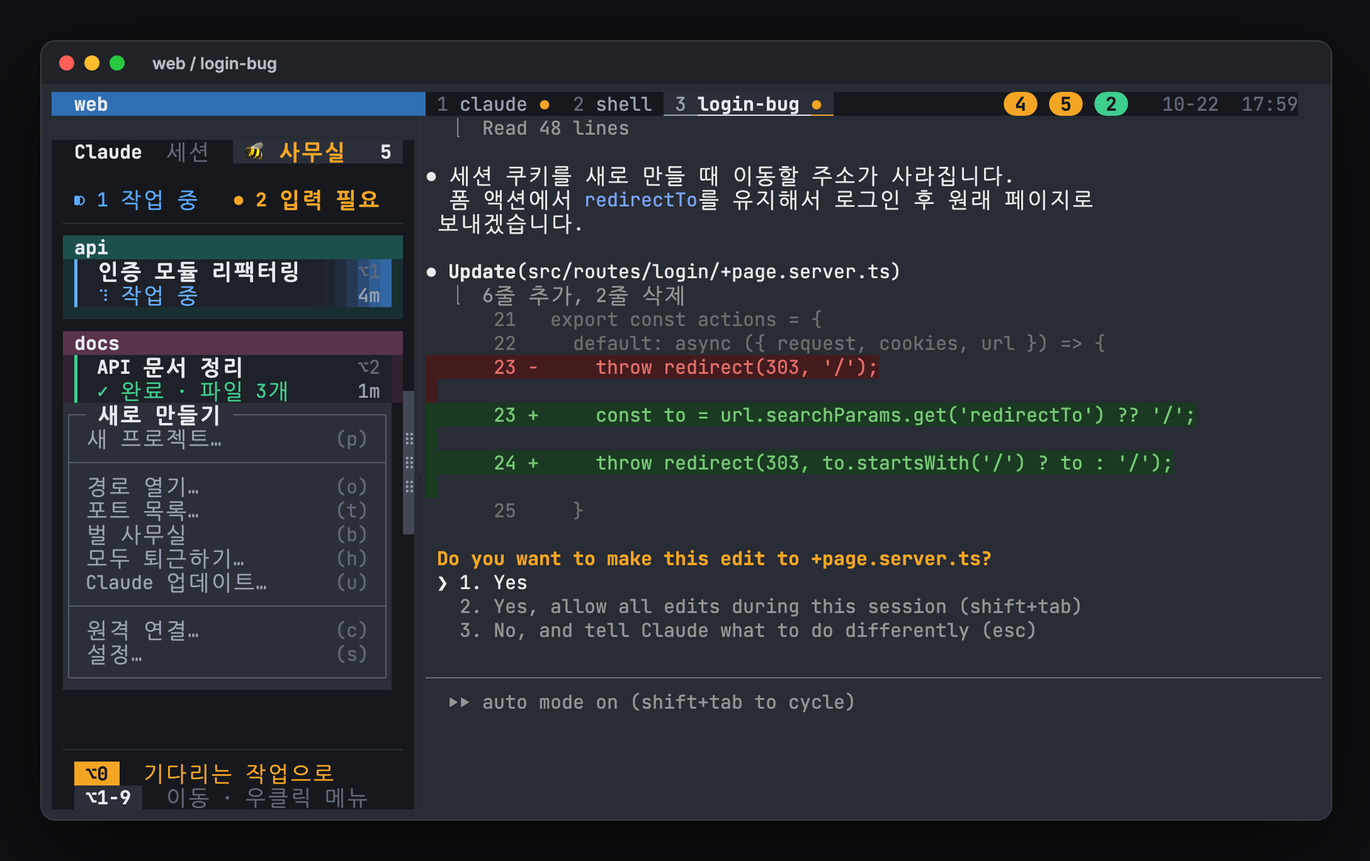
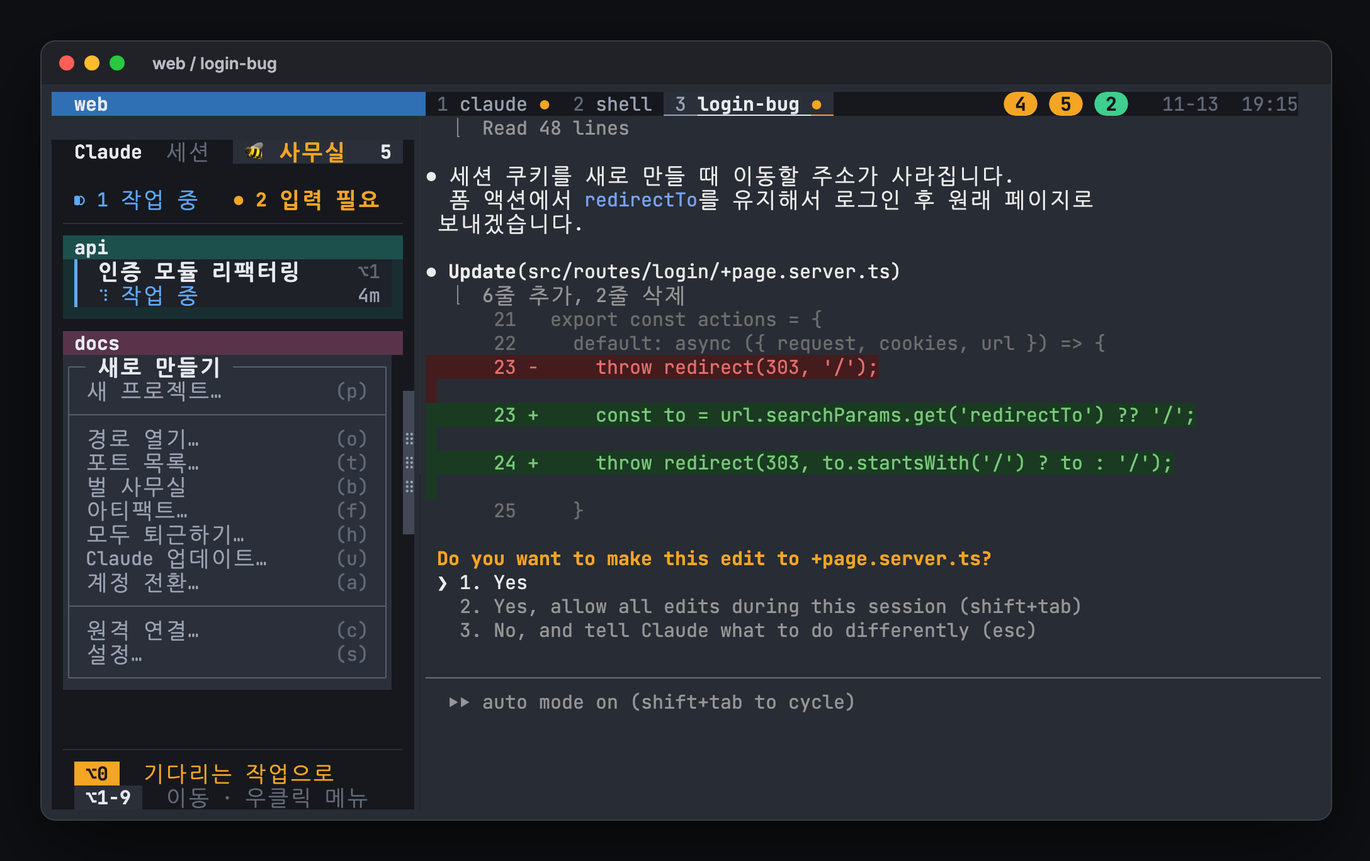
Docs: Claude accounts in the READMEs and guides, teams left out for now
The introductions name more than one account; a section covers adding,
switching, one project's account, the status line, what is shared and the
artifacts list. Teams come out of the READMEs and guides until they are
tested more. Also: background shells and context size on the cards, the
office's looks and lights, name tags, the clocked-out card's menu, update
--yes, file paste progress, sidebar-errors.log. Menu screenshots retaken.

Claude-Session: https://claude.ai/code/session_015AHYAgHuVukZzcWQ22tdwW

diff --git a/docs/guide.html b/docs/guide.html
@@ -298,7 +298,7 @@ ul { margin: 0; padding-left: 1.2em; display: grid; gap: 4px; max-width: 65ch; }
     <a class="win" href="#font">4:글꼴</a>
     <a class="win" href="#phone">5:폰</a>
     <a class="win" href="#remote">6:원격</a>
-    <a class="win" href="#team">7:팀</a>
+    <a class="win" href="#accounts">7:계정</a>
     <a class="win" href="#fix">8:문제 해결</a>
     <a class="win" href="#how">9:동작 원리</a>
     <a class="win" href="#files">10:파일</a>
@@ -704,25 +704,22 @@ hivemux connect me@work-mac.local</pre></div>
   <div class="note">두 화면에서 같은 프로젝트를 보면 화면을 같이 씁니다. 한쪽에서 창을 바꾸면 다른 쪽도 바뀝니다. 크기는 마지막으로 키보드 초점을 받은 화면에 맞춥니다. 원격 화면이 보고 있는 창에서는 사이드바 애니메이션과 상태줄 스피너가 멈춥니다 (장면마다 네트워크로 가서 입력이 느려지므로).</div>
 </section>
 
-<section id="team">
-  <span class="label">7 · 팀</span>
-  <h2>역할을 나눈 Claude 팀</h2>
-  <p>한 프로젝트 안에서 조사, 기획, 디자인, 개발, QA, 마케팅처럼 역할을 나눈 Claude 여럿이 각자 창에서 일하고, Claude Code의 세션 간 메시지로 이름을 불러 일을 넘깁니다. 리드가 계획을 세우고 일을 나눕니다. 재부팅해도 역할은 같은 대화, 같은 모델과 지시문으로 돌아옵니다.</p>
+<section id="accounts">
+  <span class="label">7 · Claude 계정</span>
+  <h2>여러 Claude 계정</h2>
+  <p>Claude 계정 하나가 사용 한도에 걸리면 다른 계정에 로그인해 바꿔 씁니다. 모든 Claude가 같은 대화로 이어서 일합니다.</p>
   <div class="cols">
-    <div class="card"><h3>만들기</h3><p>사이드바에서 프로젝트 이름을 오른쪽 클릭 → <b>팀…</b>, 또는 벌 사무실 위쪽의 <b>팀</b>. 템플릿을 고르거나, 위저드의 세 질문에 답해 역할마다 이유가 붙은 팀을 추천받거나, 빈 팀으로 시작합니다.</p></div>
-    <div class="card"><h3>고치기</h3><p>역할마다 모델, 노력, 자기 워크트리, 리드, 읽기 전용, 맡는 폴더, 다이어트 기준, 지시문. 바뀐 설정은 그 역할을 다시 시작할 때 적용됩니다. 제안 칸이 흔한 실수(검사 역할이 파일을 고침, 가벼운 역할에 opus, 리드 없음)를 알려 주고 버튼으로 고칩니다.</p></div>
-    <div class="card"><h3>시작하기</h3><p>▶ 팀 시작 → 폴더 신뢰 확인(버튼 하나) → 리드에게 목표 보내기. 리드가 일을 나눠 맡기니 역할마다 따로 말하지 않아도 됩니다. 역할이 나에게 묻는 질문은 팀 화면의 <b>나에게 온 질문</b>에 모입니다.</p></div>
-    <div class="card"><h3>다이어트</h3><p>답할 때마다 컨텍스트 토큰 수를 적고(쉬는 카드에 <code>142K</code>), 기준(기본 120K)을 넘은 역할은 쉴 때 노트를 정리하고 대화를 비운 뒤 노트로 이어 갑니다. 입력 중이거나 방금 질문했을 때는 하지 않습니다.</p></div>
-    <div class="card"><h3>보이는 곳</h3><p>사이드바: <code>◆ 팀 이름</code> 아래 묶음, 리드는 ★, 마지막 넘김 <code>✉ 기획 → 개발</code>. 벌 사무실: 팀 섬과 보드, 역할 소품, 넘김 편지, 목표 회의.</p></div>
-    <div class="card"><h3>리포트</h3><p>팀 화면의 <b>리포트</b>: 하루의 시간표(일함, 기다림, 넘김 화살표, 다이어트), 일이 흐른 길, 나를 기다린 일, 역할별 하루, 만든 것. 요청하면 하루 이야기를 haiku가 씁니다.</p></div>
+    <div class="card"><h3>추가하기</h3><p>사이드바 오른쪽 클릭 → <b>계정 전환…</b> → <b>계정 추가…</b>에서 이름을 넣고 브라우저에서 한 번 로그인합니다.</p></div>
+    <div class="card"><h3>바꾸기</h3><p>같은 팝업에서 계정을 고릅니다. 먼저 어느 프로젝트의 Claude 몇 개가 다시 시작되는지 보여 주고 묻습니다. 쉬고 있거나 한도에 걸려 멈춘 Claude는 바로, 일하는 Claude는 그 턴이 끝난 뒤 같은 대화로 새 계정에서 다시 시작합니다.</p></div>
+    <div class="card"><h3>프로젝트 하나만</h3><p>프로젝트 이름을 오른쪽 클릭 → <b>이 프로젝트 계정…</b>에서 그 프로젝트만의 계정을 정합니다. "모든 프로젝트 설정을 따릅니다"로 되돌립니다.</p></div>
+    <div class="card"><h3>지금 계정</h3><p>기본 계정이 아니면 상태줄에 <code>◉ work</code>가 보입니다.</p></div>
+    <div class="card"><h3>함께 쓰는 것</h3><p>추가한 계정은 자기 Claude 설정 폴더(<code>~/.local/share/hivemux/accounts/&lt;이름&gt;</code>, <code>CLAUDE_CONFIG_DIR</code>)를 갖습니다. 로그인만 따로이고, 설정, 훅, 대화, 메모리, 스킬, 플러그인, 실행 중인 세션 목록은 <code>~/.claude</code>와 함께 씁니다.</p></div>
+    <div class="card"><h3>아티팩트</h3><p>아티팩트는 게시한 계정으로만 열립니다. 오른쪽 클릭 → <b>아티팩트…</b>는 Claude가 게시한 아티팩트를 계정과 함께 보여 줍니다. <b>사본 보기</b>는 여기 남긴 사본을 열고, <b>다시 게시 요청 복사</b>는 지금 계정의 Claude에게 다시 게시를 부탁할 문구를 복사합니다.</p></div>
   </div>
-  <div class="code"><button class="copy" type="button">복사</button><pre><span class="cmt"># 프로젝트 안에서</span>
-hivemux team use web-app        <span class="cmt"># 템플릿을 .hivemux/ 로</span>
-hivemux team up                 <span class="cmt"># 역할마다 창을 열고 시작</span>
-hivemux team goal "로그인과 결제가 있는 쇼핑몰 MVP 를 만들자"
-hivemux team report             <span class="cmt"># 오늘 (JSON)</span>
-hivemux team down               <span class="cmt"># 팀 끝내기 (대화는 남음)</span></pre></div>
-  <p>파일은 프로젝트의 <code>.hivemux/</code>에 있습니다. <code>team.toml</code>, <code>roles/</code>, <code>notes/</code>, <code>questions.md</code>, 기록(<code>handoffs.log</code>, <code>diet.log</code>, <code>states.log</code>, <code>files.log</code>). 내 템플릿은 <code>~/.config/hivemux/teams/</code>.</p>
+  <div class="code"><button class="copy" type="button">복사</button><pre>hivemux account add work        <span class="cmt"># 한 번 로그인 (브라우저)</span>
+hivemux account use work        <span class="cmt"># 모든 프로젝트</span>
+hivemux account use work -s api <span class="cmt"># 프로젝트 하나 (all: 모든 프로젝트 설정 따르기)</span>
+hivemux account list            <span class="cmt"># 계정, 이메일, 프로젝트</span></pre></div>
 </section>
 
 <section id="fix">
@@ -891,8 +888,6 @@ hivemux uninstall</pre></div>
   </ul>
   <p>업데이트할 때 <code>hivemux setup</code>을 다시 실행하면, 새 버전에서 늘어난 훅을 등록하고 실행 중인 tmux 설정을 다시 읽은 뒤 사이드바를 다시 띄웁니다. 쓰던 세션은 그대로입니다. 업데이트 전에 시작한 Claude는 다시 시작해야 새 훅을 씁니다.</p>
   <p><b>Claude Code 업데이트</b>: 실행 중인 Claude는 다시 시작하기 전까지 예전 버전으로 돕니다. 오른쪽 클릭 메뉴 → <b>Claude 업데이트</b>(또는 <code>hivemux update-claude</code>)는 먼저 설치된 버전과 최신 버전(Homebrew 설치면 Homebrew 기준)을 보여 줍니다. 이미 최신이면 "최신 버전입니다"로 끝나고, 새 버전이 있으면 몇 개의 Claude가 다시 시작되는지 알려 주며 <kbd>y</kbd>로 확인을 받은 뒤 Claude Code를 업데이트하고(Homebrew로 설치했으면 brew로, 아니면 <code>claude update</code>), 예전 버전으로 도는 칸의 Claude를 새 버전으로 다시 시작합니다. 재부팅 뒤처럼 <code>claude --resume</code>으로 열어 대화는 그대로이고, 끝났는데 아직 안 본 작업은 그 상태로 남습니다. 일하는 중이거나 나를 기다리는 Claude, 지금 화면에 보이는 창의 Claude(입력 중일 수 있음)는 건드리지 않고, 일이 끝나고 화면에서 벗어나면 다시 시작합니다. 이미 최신이어도 예전 버전으로 도는 Claude가 있으면 다시 시작합니다.</p>
-  <p><b>여러 Claude 계정</b>: 오른쪽 클릭 메뉴 → <b>계정 전환</b>(또는 <code>hivemux account</code>)에서 다른 계정을 추가하면 브라우저로 한 번 로그인하고, 이후에는 고르기만 하면 됩니다. 프로젝트 이름 줄의 메뉴 → <b>이 프로젝트 계정</b>은 그 프로젝트만 다른 계정을 쓰게 하고, "모든 프로젝트 설정을 따릅니다"로 되돌립니다. 추가한 계정은 자기 Claude 설정 폴더(<code>~/.local/share/hivemux/accounts/&lt;이름&gt;</code>, <code>CLAUDE_CONFIG_DIR</code>)를 가지며, 로그인만 따로이고 설정, 대화, 스킬, 플러그인, 기록은 <code>~/.claude</code>를 함께 씁니다. 그래서 계정을 바꾸면 다른 계정으로 돌던 Claude가 같은 대화로 새 계정에서 다시 시작합니다. 화면에 보이거나 사용 한도에 걸려 멈춘 Claude도 바로 다시 시작하고, 일하는 중인 Claude는 끝난 뒤 다시 시작합니다. 기본 계정이 아니면 상태줄에 ◉ 계정 이름이 보입니다.</p>
-  <p><b>아티팩트</b>: 아티팩트는 게시한 계정으로 로그인해야 열립니다. 오른쪽 클릭 메뉴 → <b>아티팩트</b>(벌 사무실의 아티팩트 탭)는 Claude 가 게시한 아티팩트를 모두, 어느 계정의 것인지와 함께 보여 줍니다. 대화 기록(<code>~/.claude/projects</code>)에서 읽으므로 이 기능 전에 게시한 것도 나옵니다. 게시한 파일이 남아 있는 동안 사본을 <code>~/.local/share/hivemux/artifacts/</code>에 남겨 두어, 다른 계정의 것은 <b>사본 보기</b>로 열 수 있습니다. <b>다시 게시 요청 복사</b>는 지금 계정의 Claude 에게 붙여 넣을 요청 문구(제목, 파일, 예전 주소)를 클립보드에 넣습니다.</p>
   <h3>다른 터미널</h3>
   <p>Ghostty 말고 쓰던 터미널도 창을 열 때마다 사이드바가 있는 tmux 안으로 들어가게 할 수 있습니다. 이름을 빼면 지금 쓰는 터미널을 고릅니다. 그 터미널에서 <code>hivemux setup</code>을 실행하면 setup도 묻습니다(기본값 "아니오"). <code>hivemux doctor</code>는 켜 둔 터미널을 보여 주고, <code>hivemux uninstall</code>은 모두 지웁니다.</p>
   <div class="code"><button class="copy" type="button">복사</button><pre><span class="cmt"># ghostty, iterm, wezterm, kitty, alacritty, terminal (Terminal.app). Linux는 ghostty, wezterm, kitty, alacritty</span>
@@ -921,9 +916,8 @@ hivemux terminal iterm --off</pre></div>
     <div><code>hivemux-rename-project</code>, <code>hivemux-rename-project-ui</code><span>프로젝트 이름 바꾸기와 그 팝업</span></div>
     <div><code>hivemux-connect</code>, <code>hivemux-connect-ui</code><span>원격 연결 (<code>hivemux connect</code>)과 그 팝업</span></div>
     <div><code>hivemux-ports</code>, <code>hivemux-ports-ui</code><span>원격 연결 중 상대 컴퓨터의 개발 서버 포트를 이 컴퓨터로 잇기와 포트 목록 팝업</span></div>
-    <div><code>hivemux-office</code><span>벌 사무실 창과 그 창이 읽는 로컬 웹 서버 (share/office). 팀 화면(/team, share/office/team.html)도 낸다</span></div>
+    <div><code>hivemux-office</code><span>벌 사무실 창과 그 창이 읽는 로컬 웹 서버 (share/office)</span></div>
     <div><code>hivemux-paste</code><span>원격 화면의 Claude 칸에서 Ctrl+V: 접속한 컴퓨터 클립보드의 이미지나 Finder에서 복사한 파일 붙이기</span></div>
-    <div><code>hivemux-team</code><span><code>hivemux team</code>: 역할이 다른 Claude 들의 팀. 템플릿(share/teams)을 프로젝트 <code>.hivemux/</code> 로 복사하고, 역할마다 창을 열고, 재개할 때 역할 설정을 다시 붙인다</span></div>
     <div><code>hivemux-wake</code><span>원격 요청(붙여넣기, 사무실, 열기)을 접속한 컴퓨터에 알리기. 먼저 끊긴 연결이 남긴 대기를 정리한다</span></div>
     <div><code>hivemux-shift</code><span>퇴근과 출근: 모든 Claude, 또는 Claude 하나나 프로젝트 하나 끄기(야근 포함), 같은 대화로 다시 시작 (<code>shift</code>, <code>offwork.tsv</code>, <code>shift.log</code>)</span></div>
     <div><code>hivemux-bees</code><span>벌 명부와 꿀 장부: 입사, 퇴사, 재입사, 집, 꿀 순위 (<code>bees.json</code>, <code>honey.log</code>)</span></div>

diff --git a/docs/guide.en.html b/docs/guide.en.html
@@ -298,7 +298,7 @@ ul { margin: 0; padding-left: 1.2em; display: grid; gap: 4px; max-width: 65ch; }
     <a class="win" href="#font">4:Font</a>
     <a class="win" href="#phone">5:Phone</a>
     <a class="win" href="#remote">6:Remote</a>
-    <a class="win" href="#team">7:Teams</a>
+    <a class="win" href="#accounts">7:Accounts</a>
     <a class="win" href="#fix">8:Troubleshooting</a>
     <a class="win" href="#how">9:How it works</a>
     <a class="win" href="#files">10:Files</a>
@@ -696,25 +696,22 @@ hivemux connect me@work-mac.local</pre></div>
   <div class="note">Two screens on the same project share it: switching windows on one moves the other. The size follows the screen that got the keyboard focus last. While a remote screen looks at a window, the sidebar animation and the status line spinner stop (each frame would go over the network and slow typing).</div>
 </section>
 
-<section id="team">
-  <span class="label">7 · Teams</span>
-  <h2>A team of Claudes with roles</h2>
-  <p>A few Claudes with roles in one project (research, planning, design, dev, QA, marketing), each in its own window, handing work to each other by name with Claude Code's messages between sessions. The lead plans and splits the work. After a reboot each role comes back in the same conversation, with its model and prompt.</p>
+<section id="accounts">
+  <span class="label">7 · Claude accounts</span>
+  <h2>More than one Claude account</h2>
+  <p>When one Claude account reaches its usage limit, log in to another and switch to it. Every Claude carries on in the same conversation.</p>
   <div class="cols">
-    <div class="card"><h3>Make one</h3><p>Right-click a project's name in the sidebar → <b>Team…</b>, or the <b>Team</b> link at the top of the bee office. Pick a template, answer the wizard's three questions for a team with the reasons for each role, or start empty.</p></div>
-    <div class="card"><h3>Edit it</h3><p>Per role: model, effort, its own worktree, lead, read-only, the folders it owns, the diet line, the prompt. A running role picks up changes when it starts again. Suggestions point out the usual mistakes (a reviewer that edits, opus on a light role, no lead) with a button that fixes them.</p></div>
-    <div class="card"><h3>Start it</h3><p>▶ Start team → trust the folder (one button) → send the lead a goal. The lead hands the work out, so you need not talk to each role. Questions a role asks you gather under <b>Questions for you</b>.</p></div>
-    <div class="card"><h3>Diet</h3><p>Each answer notes the context in tokens (resting cards show <code>142K</code>). A role past its line (120K by default) and at rest writes its notes, clears, and goes on from them. Never while you type in its prompt, or right after it asked you something.</p></div>
-    <div class="card"><h3>Where it shows</h3><p>Sidebar: grouped under <code>◆ team name</code>, the lead starred, the last hand-off as <code>✉ Planning → Dev</code>. Bee office: the team's pod and board, each role's tool, letters at hand-offs, a meeting at a new goal.</p></div>
-    <div class="card"><h3>Report</h3><p><b>Report</b> on the team page: the day's timeline (working, waiting, hand-off arrows, diets), where the work went, what waited on you, each role's day, what got made. On request, haiku writes the day's story.</p></div>
+    <div class="card"><h3>Add one</h3><p>Right-click the sidebar → <b>Switch account…</b> → <b>Add account…</b>, give it a name and log in in the browser once.</p></div>
+    <div class="card"><h3>Switch</h3><p>Pick it in the same popup. It first says how many Claudes, in which projects, will restart, and asks. They restart on the new account in the same conversation: at once when at rest or stopped by the limit, after the turn when working.</p></div>
+    <div class="card"><h3>One project</h3><p>Right-click a project's name → <b>Account for this project…</b> gives that project its own account; "Same as all projects" undoes it.</p></div>
+    <div class="card"><h3>Where you are</h3><p>The status line shows <code>◉ work</code> when the account in use is not the default one.</p></div>
+    <div class="card"><h3>What is shared</h3><p>An added account is its own Claude config folder (<code>~/.local/share/hivemux/accounts/&lt;name&gt;</code>, <code>CLAUDE_CONFIG_DIR</code>): only the login is its own. Settings, hooks, conversations, memory, skills, plugins and the running sessions are shared with <code>~/.claude</code>.</p></div>
+    <div class="card"><h3>Artifacts</h3><p>An artifact opens only for the account that published it. Right-click → <b>Artifacts…</b> lists every one your Claudes published with its account. <b>View copy</b> opens the copy kept here; <b>Copy republish request</b> asks a Claude on the account in use to publish it again.</p></div>
   </div>
-  <div class="code"><button class="copy" type="button">Copy</button><pre><span class="cmt"># in the project</span>
-hivemux team use web-app        <span class="cmt"># the template into .hivemux/</span>
-hivemux team up                 <span class="cmt"># a window per role</span>
-hivemux team goal "Build a shop MVP with sign-in and checkout"
-hivemux team report             <span class="cmt"># today (JSON)</span>
-hivemux team down               <span class="cmt"># stop (conversations stay)</span></pre></div>
-  <p>Files live in the project's <code>.hivemux/</code>: <code>team.toml</code>, <code>roles/</code>, <code>notes/</code>, <code>questions.md</code> and the logs (<code>handoffs.log</code>, <code>diet.log</code>, <code>states.log</code>, <code>files.log</code>). Your templates: <code>~/.config/hivemux/teams/</code>.</p>
+  <div class="code"><button class="copy" type="button">Copy</button><pre>hivemux account add work        <span class="cmt"># log in once (browser)</span>
+hivemux account use work        <span class="cmt"># every project</span>
+hivemux account use work -s api <span class="cmt"># one project (all: as every project)</span>
+hivemux account list            <span class="cmt"># accounts, emails, projects</span></pre></div>
 </section>
 
 <section id="fix">
@@ -883,8 +880,6 @@ hivemux uninstall</pre></div>
   </ul>
   <p>When you update, running <code>hivemux setup</code> again registers any hooks the new version adds, reloads the running tmux and restarts the sidebars. Your sessions keep running. Claude sessions started before the update use the new hooks once restarted.</p>
   <p><b>Updating Claude Code</b>: a running Claude keeps its old version until it starts again. Right-click → <b>Update Claude</b> (or <code>hivemux update-claude</code>) first shows the installed and the latest version (Homebrew's for a Homebrew install). Up to date, it says so and stops; with a newer one it says how many Claudes will restart and asks (<kbd>y</kbd>) before it updates Claude Code (with brew if it came from Homebrew, otherwise <code>claude update</code>) and restarts each pane's Claude that still runs an old version. It opens with <code>claude --resume</code> as after a reboot, so the conversation is the same, and a finished task you have not seen stays that way. A Claude that is working, waiting for you, or in a window on a screen (you might be typing) is left alone and restarts once it is done and off screen. Already up to date, it still restarts any Claude on an older version.</p>
-  <p><b>More than one Claude account</b>: right-click → <b>Switch account</b> (or <code>hivemux account</code>) adds another account with one browser login; after that you only pick it. On a project name, <b>Account for this project</b> gives that project its own account, and "Same as all projects" undoes it. An added account has its own Claude config folder (<code>~/.local/share/hivemux/accounts/&lt;name&gt;</code>, <code>CLAUDE_CONFIG_DIR</code>): only the login is its own, and settings, conversations, skills, plugins and history are shared with <code>~/.claude</code>. So when you switch, each Claude on another account restarts on the new one in the same conversation, right away even on screen or stopped by a usage limit; one at work restarts once it is done. The status line shows ◉ and the account when it is not the default one.</p>
-  <p><b>Artifacts</b>: an artifact opens only when logged in to the account that published it. Right-click → <b>Artifacts</b> (the bee office's Artifacts tab) lists every artifact your Claudes published with the account it belongs to. It reads the conversation transcripts (<code>~/.claude/projects</code>), so what was published before this feature is there too. While a published file is still on disk a copy is kept in <code>~/.local/share/hivemux/artifacts/</code>, so one of another account opens with <b>View copy</b>. <b>Copy republish request</b> puts a request (title, file, old link) on the clipboard to paste to a Claude on the account in use.</p>
   <h3>Other terminals</h3>
   <p>The terminal you already use can also open every window inside tmux with the sidebar, the way Ghostty does. Leave out the name to pick the terminal you are in. Run from one of them, <code>hivemux setup</code> offers it too (default no). <code>hivemux doctor</code> lists the terminals that are on, and <code>hivemux uninstall</code> removes them all.</p>
   <div class="code"><button class="copy" type="button">Copy</button><pre><span class="cmt"># ghostty, iterm, wezterm, kitty, alacritty, terminal (Terminal.app); on Linux ghostty, wezterm, kitty, alacritty</span>
@@ -915,7 +910,6 @@ hivemux terminal iterm --off</pre></div>
     <div><code>hivemux-ports</code>, <code>hivemux-ports-ui</code><span>Forward the other computer's dev server ports here while connected, and the port list popup</span></div>
     <div><code>hivemux-office</code><span>The bee office window and the local web server it reads (share/office)</span></div>
     <div><code>hivemux-paste</code><span>Ctrl+V in a Claude pane on a remote screen: paste the image or the files copied in Finder on the connecting computer's clipboard</span></div>
-    <div><code>hivemux-team</code><span><code>hivemux team</code>: a team of Claudes with roles. Copies a template (share/teams) into the project's <code>.hivemux/</code>, opens a window per role, and puts the role flags back when one resumes</span></div>
     <div><code>hivemux-wake</code><span>Send a remote request (paste, office, open) to the connecting computer, after ending the waits left by dropped connections</span></div>
     <div><code>hivemux-shift</code><span>Clock out and in: stop every Claude, or one Claude or one project (overtime first), bring them back in the same conversations (<code>shift</code>, <code>offwork.tsv</code>, <code>shift.log</code>)</span></div>
     <div><code>hivemux-bees</code><span>The roster and the honey ledger: hiring, leaving, rehiring, houses, the ranking (<code>bees.json</code>, <code>honey.log</code>)</span></div>

diff --git a/README.md b/README.md
@@ -8,7 +8,9 @@ hivemux adds a sidebar to every tmux window that lists every Claude Code session
 in every tmux session: what it is working on, whether it is running, waiting for
 your approval, or done, and for how long. Press `Option+3` to jump to the third
 one, or `Option+0` to jump to whichever has waited longest. Close the terminal or
-reboot and everything comes back, with each Claude resumed in its pane. It runs on
+reboot and everything comes back, with each Claude resumed in its pane. When a
+Claude account hits its usage limit, switch every project (or just one) to
+another account and each Claude carries on in the same conversation. It runs on
 macOS and Linux (on Linux, `Option` is `Alt`).
 
 <p align="center">
@@ -32,15 +34,19 @@ macOS and Linux (on Linux, `Option` is `Alt`).
   look at it.
 - **Bee office.** Every Claude session as a bee in a little office: watch who
   works, who waits for you, and who is done at a glance. See [The bee office](#the-bee-office).
-- **Teams.** Claudes with roles in one project (planning, dev, QA…), each in
-  its own window, handing work to each other, with a lead, a diet that keeps
-  their context small, and a report of the day. See [Teams](#teams).
+- **More than one Claude account.** Hit a usage limit? Log in to another
+  account once and switch to it, for every project or for one; each Claude
+  restarts on it in the same conversation, and the status line shows
+  `◉ <account>`. A list of every artifact your Claudes published says which
+  account it belongs to. See [More than one Claude account](#more-than-one-claude-account).
 - **Why it waits, and answer from the office.** A waiting card says what it
   waits for: an approval (with Claude's own one-line description of the
   command, or the file), a plan, a question, or an error; a finished one says
   how many files the turn changed, and one whose turn ended with background
-  agents still at work says "2 agents running" until it really finishes. In
-  the bee office, click the waiting bee's bubble and press the answer there.
+  work still going says so until it really finishes ("2 agents running",
+  "waiting on 1 shell" for a build or a data import; a dev server does not
+  count). A resting card shows how much context the Claude carries (`142K`).
+  In the bee office, click the waiting bee's bubble and press the answer there.
 - **Clock out, clock in.** Stop every Claude for the night and bring them all
   back in the morning, in the same conversations, while the bees go home to a
   village and walk back to work.
@@ -62,14 +68,6 @@ macOS and Linux (on Linux, `Option` is `Alt`).
   brew if it came from Homebrew; up to date, it just says so), then restarts each
   pane's Claude on the new version in the same conversation. One that is working,
   waiting for you, or on a screen restarts later, once it is done and off screen.
-- **More than one Claude account.** Hit a usage limit? Right-click → Switch
-  account… (or `hivemux account add <name>`, `hivemux account use <name>`) logs
-  in to another account once and switches to it; a project name's menu gives
-  that project its own account. Settings, conversations and skills are shared,
-  so each Claude restarts on the new account in the same conversation.
-  Right-click → Artifacts… lists every artifact your Claudes published with
-  the account it belongs to; one of another account opens from a copy kept
-  here, or you copy a request to publish it again under the account in use.
 - **Projects.** `hm ~/code/api` opens one tmux session per folder with a named
   Claude window and a shell window.
 - **Open paths Claude mentions.** `Option+O` lists file paths from the pane's
@@ -106,7 +104,15 @@ The 🐝 button at the top of the sidebar (or `prefix B`, the right-click menu,
   on the wall in a frame.
 - Turn, tilt and zoom with the mouse (a turn pivots on the point you pressed),
   or switch to **2D** for the same office seen from straight above. Zoom far out
-  and the office sits on a tiny planet.
+  and the office sits on a tiny planet. The office is a round campus round a
+  courtyard; Settings (⚙) → Office look → Classic brings back the rectangular
+  office, Drawing → Drawn (lighter) draws it flat for slower computers, and the
+  💡 button (Office lights) keeps it bright after dark.
+- A bee's name tag shows the name you gave its session (`hivemux` rename or
+  Claude's `/rename`); bees with none show the project, numbered `api #1`,
+  `api #2` among themselves.
+- The **Artifacts** link at the top lists every artifact your Claudes
+  published (see [Artifacts](#artifacts)).
 - Computers connected with `hivemux connect` get desks of their own, on a
   carpet of their color with a name plaque on the wall.
 - Without the Swift compiler for the window app (always so on Linux), it opens
@@ -169,63 +175,46 @@ window for ten minutes) or its project is leaving: the bee holds up a box of
 its things and walks out by the elevator saying goodbye. The same name coming
 back is rehired, into the same house.
 
-## Teams
+## More than one Claude account
 
-A team is a few Claudes with roles in one project, say research, planning,
-design, dev, QA and marketing, each in its own window. They hand work to each
-other by name with Claude Code's messages between sessions; one of them, the
-lead, plans and splits the work. It suits a project that goes on for days: the
-roles survive a reboot and come back in the same conversations.
+When one Claude account reaches its usage limit, log in to another and switch
+to it; every Claude carries on in the same conversation.
 
-**Make one.** Right-click a project's name in the sidebar → **Team…** (or the
-Team link at the top of the bee office). Pick a template, answer the wizard's
-three questions (what you build, what you have, what matters most) for a team
-with the reasons for each role, or start empty. In a terminal:
-`hivemux team use web-app`.
+- **Add an account.** Right-click the sidebar → **Switch account…** →
+  **Add account…**, give it a name (`work`), and log in in the browser once
+  (or `hivemux account add work`).
+- **Switch.** Pick it in the same popup (`hivemux account use work`). It first
+  says how many Claudes, in which projects, will restart, and asks. Those
+  restart on the new account in the same conversation (`claude --resume`):
+  at once when at rest or stopped by the usage limit, after the turn when
+  working. New windows start on it too.
+- **One project.** Right-click a project's name → **Account for this
+  project…** gives that project its own account (`hivemux account use work -s
+  api`); "Same as all projects" undoes it.
+- **Where you are.** The status line shows `◉ work` when the account in use
+  is not the default one. `hivemux account list` shows every account, its
+  email and the projects on it.
 
-**Edit it** on the same page: each role's model, effort, its own worktree, lead,
-read-only, the folders it owns, its diet line and its prompt (with a preview of
-the full prompt it gets). Suggestions drawn from how people run teams (a
-read-only reviewer, sonnet for light roles, one lead, no shared folders) come
-with a button that applies them. Rename the team at the top; **Save as my
-template** keeps it for other projects.
+An added account is a Claude config folder of its own
+(`~/.local/share/hivemux/accounts/<name>`, used through `CLAUDE_CONFIG_DIR`):
+only the login is its own. Settings, hooks, conversations, memory, skills,
+plugins and the list of running sessions are shared with `~/.claude`, so a
+conversation goes on under any account and Claudes on different accounts still
+message each other. `default` is the login in `~/.claude`. `hivemux account
+remove <name>` logs out and removes it.
 
-**Start it** with ▶ Start team (`hivemux team up`). Getting started walks
-through the rest: a folder Claude has not opened asks each role to trust it
-(one button answers them, showing the folder); then write the goal for the lead,
-or pick an example, and send it (`hivemux team goal "…"`). The lead plans and
-hands the pieces out; you do not need to talk to each role, though you can.
+### Artifacts
 
-**While it works**
+An artifact (a claude.ai page a Claude published) opens only for the account
+that published it. Right-click → **Artifacts…** (or the Artifacts link in the
+bee office) lists every artifact your Claudes published, newest first, with
+the account it belongs to, read from the conversation transcripts, so the ones
+from before you added accounts are there too. For one of another account:
 
-- In the sidebar the team's cards sit together under `◆ <team name>`, the lead
-  first with a ★; the last hand-off shows as `✉ Planning → Dev · 2m`.
-- In the bee office the team gets a pod of its own, on a teal carpet with its
-  name and a board of who does what. Each role holds its tool, a letter flies
-  between desks at a hand-off, and a new goal gathers the team in the meeting
-  room for a moment.
-- Questions a role asks you go to `.hivemux/questions.md` and show on the team
-  page as **Questions for you**.
-- **Diet.** After each answer hivemux notes how many tokens of context a Claude
-  has (resting cards show it, e.g. `142K`): every request reads all of it
-  again. A role past its line (120K by default) and at rest updates its notes,
-  clears, and carries on from them under the same name, so the others keep
-  messaging it. It never does so while you type in its prompt or right after
-  it asked you something.
-- **Report.** The Report page shows a team's day: time worked, hand-offs,
-  tasks done, tokens and diets; a timeline of who worked and waited when, with
-  hand-offs as arrows between roles; who handed to whom; what waited on you;
-  each role's day; what got made. A small model writes the day's story when you
-  ask. Copy it as Markdown or save it as PDF.
-
-**Stop it** with Stop team (`hivemux team down`): the roles clock out, working
-ones once done, and come back in the same conversations next time.
-
-Everything lives in the project's `.hivemux/`: `team.toml` and `roles/` (the
-template's copy; commit them if you like), `notes/` (each role's notes),
-`questions.md`, and the logs the report reads (`handoffs.log`, `diet.log`,
-`states.log`, `files.log`). A template is just a folder of `team.toml` and
-`roles/`; yours are in `~/.config/hivemux/teams/`.
+- **View copy** opens the copy hivemux keeps of the published file
+  (`~/.local/share/hivemux/artifacts/`, taken while the file is still there).
+- **Copy republish request** puts a request on the clipboard (title, file, old
+  link) to paste to a Claude on the account in use.
 
 ## Requirements
 
@@ -326,7 +315,7 @@ curl -fsSL https://hivemux.dev/install.sh | bash   # git install: same command
 may add hooks), reloads the running tmux and restarts the sidebars, so you keep
 working in the same sessions. Claude sessions started before the update pick up
 new hooks once restarted. Claude Code itself: right-click → Update Claude
-(`hivemux update-claude`). `hivemux version` shows the installed version; see
+(`hivemux update-claude`, `--yes` to skip the question). `hivemux version` shows the installed version; see
 [CHANGELOG.md](CHANGELOG.md) for what changed.
 
 ## Quick start
@@ -347,7 +336,7 @@ new hooks once restarted. Claude Code itself: right-click → Update Claude
 | `Option+1` … `9` | jump to that Claude (any session) |
 | `Option+0` / `prefix Space` | oldest waiting Claude, else oldest unseen finished one |
 | click card / project name | jump · double click a card: rename. A project whose Claude windows are all closed stays listed ("no Claude") until you close it |
-| right click | menu. On a task: go to, rename, move up/down, clock this Claude out, close Claude, new Claude, new project. On a project name: rename, close project, account for this project, clock this project out / in, new Claude, new project. On empty space: new project, clock everyone out / in. Every menu ends with Open path…, Ports…, Bee office, Artifacts…, Update Claude…, Switch account…, Connect to… and Settings. Choose with the mouse, `↑↓` `Enter` or the letter shown; `Esc` closes |
+| right click | menu. On a task: go to, rename, move up/down, clock this Claude out, close Claude, new Claude, new project. On a clocked-out (dimmed) card: clock in, go to, close Claude. On a project name: rename, close project, account for this project, clock this project out / in, new Claude, new project. On empty space: new project. Every menu ends with Open path…, Ports…, Bee office, Artifacts…, (on empty space: Clock everyone out / in…), Update Claude…, Switch account…, Connect to… and Settings. Choose with the mouse, `↑↓` `Enter` or the letter shown; `Esc` closes. A popup that asks starts on Cancel, so `Enter` alone never confirms |
 | menu → Close Claude | asks, then closes that Claude: its pane, or its window when nothing else is in it; a project's last window keeps its shell. Not resumed again, like `/exit`; `claude --resume` still continues the conversation |
 | menu → New project | folder browser in the middle: `Enter` starts the selected folder (like `hm`), `→` / `←` in and out, type to filter, `Ctrl+N` new folder |
 | menu → Settings | language (한국어 / English), animation, notifications, sidebar width, editor for Open path, this computer's name (shown in the bee office and on remote screens); applied at once and saved |
@@ -438,7 +427,8 @@ need hivemux 0.1.26 or later. On a Linux laptop the image comes from `wl-paste`
 Files work the same way: copy a PDF (or any file) in Finder with `⌘C`, press
 `Ctrl+V` in the remote Claude pane, and the file goes over under its own name
 with its path pasted for Claude to read. Several at once, no folders, up to
-100 MB in all; both computers need 0.1.52 or later.
+100 MB in all; from 5 MB the status line there shows the progress
+(`📎 report.pdf and 2 more… 45%`). Both computers need 0.1.52 or later.
 
 <p align="center">
   <img src="docs/img/remote-paste-en.png" alt="The MacBook's clipboard screenshot in the remote Claude as [Image #1]" width="880">
@@ -491,6 +481,7 @@ with its path pasted for Claude to read. Several at once, no folders, up to
 | Claude Code hooks | write session id and state onto the tmux pane (`hivemux-hook`) |
 | sidebar | reads that state every second and draws the board (`hivemux-sidebar-view`) |
 | bee office | a small local server (`hivemux-office`) serves the office page to its window; `hivemux-bees` keeps the roster and the honey ledger, `hivemux-shift` clocks out and in |
+| accounts | `hivemux-claude` starts Claude on the project's account; `hivemux-account` adds and switches them, `hivemux-artifacts` reads the artifacts from the transcripts |
 
 On restore, `hivemux-panes` maps saved panes to Claude session ids and types
 `claude --resume <id>` in each. Sessions you ended with `/exit` are not resumed,
@@ -507,10 +498,14 @@ hivemux-sidebar respawn                # restart every sidebar
 touch ~/tmux_no_auto_restore           # skip restore on next launch
 ```
 
+A sidebar that hits an error starts again in the same pane and writes what
+happened to `~/.local/share/hivemux/sidebar-errors.log`; include it when you
+report a bug.
+
 On Linux, `tmux 3.2: need 3.3 or newer` means the distribution's tmux is too old
 (Ubuntu 22.04): use Ubuntu 24.04+, Debian 12+, Fedora or Arch.
 
-More in the illustrated guide: [`docs/guide.en.html`](docs/guide.en.html) ([한국어](docs/guide.html)); download it and open it in a browser.
+More in the docs at [hivemux.dev/docs](https://hivemux.dev/docs/), or the illustrated guide: [`docs/guide.en.html`](docs/guide.en.html) ([한국어](docs/guide.html)); download it and open it in a browser.
 
 ## Uninstall
 
